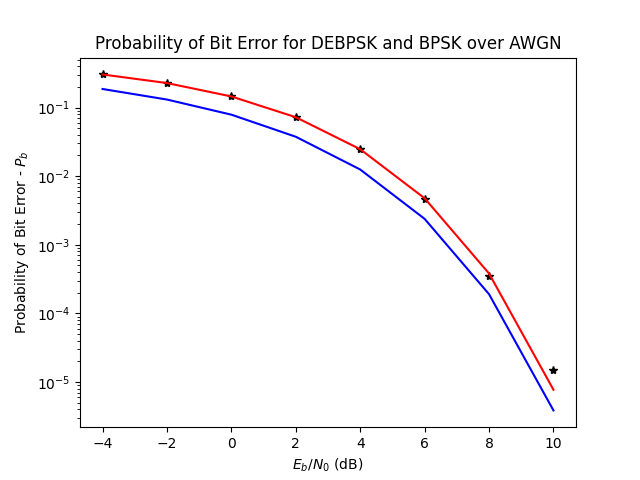
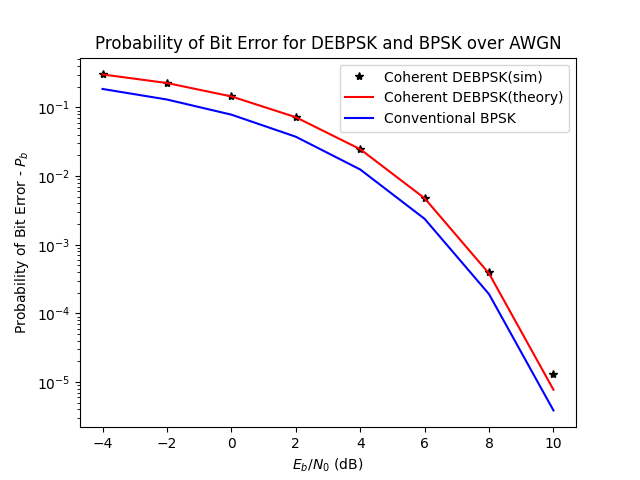
saving

diff --git a/ch2_demo_scripts.py b/ch2_demo_scripts.py
@@ -136,6 +136,7 @@ def DEBPSK_performance():
     plt.xlabel('$E_b/N_0$ (dB)')
     plt.ylabel('Probability of Bit Error - $P_b$')
     plt.title('Probability of Bit Error for DEBPSK and BPSK over AWGN')
+    plt.legend()
     plt.savefig('Ch2_images/DEBPSK_performance.png')
 
 
@@ -214,8 +215,10 @@ def dbpsk_noncoherent():
     plt.xlabel('$E_b/N_0 (dB)$')
     plt.ylabel('$Probability of Bit Error - P_b$')
     plt.title('Probability of D-BPSK over AWGN')
-    plt.savefig('Ch2_images/dbpsk_noncoherent.png')
+    plt.legend()
+    plt.savefig('Ch2_images/DBPSK_noncoherent.png')
 
+DEBPSK_performance()
 
 
 
